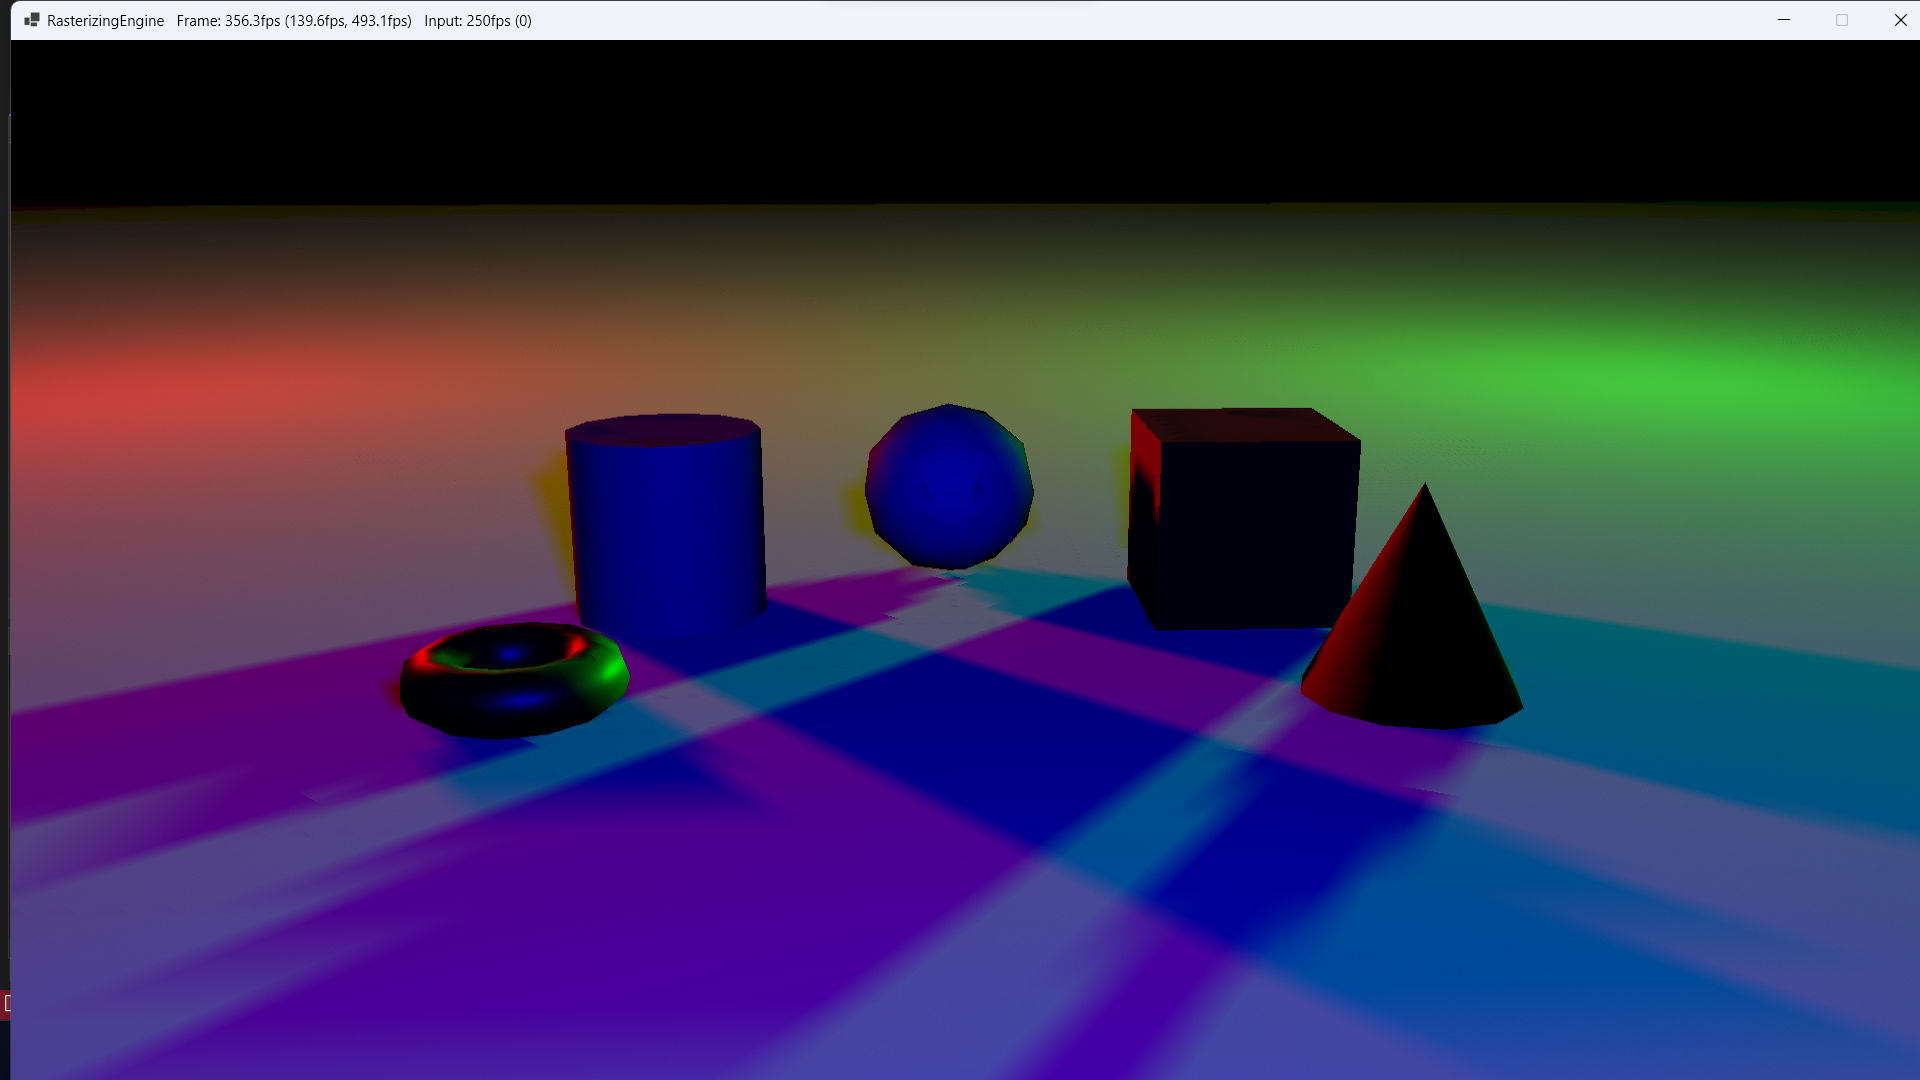
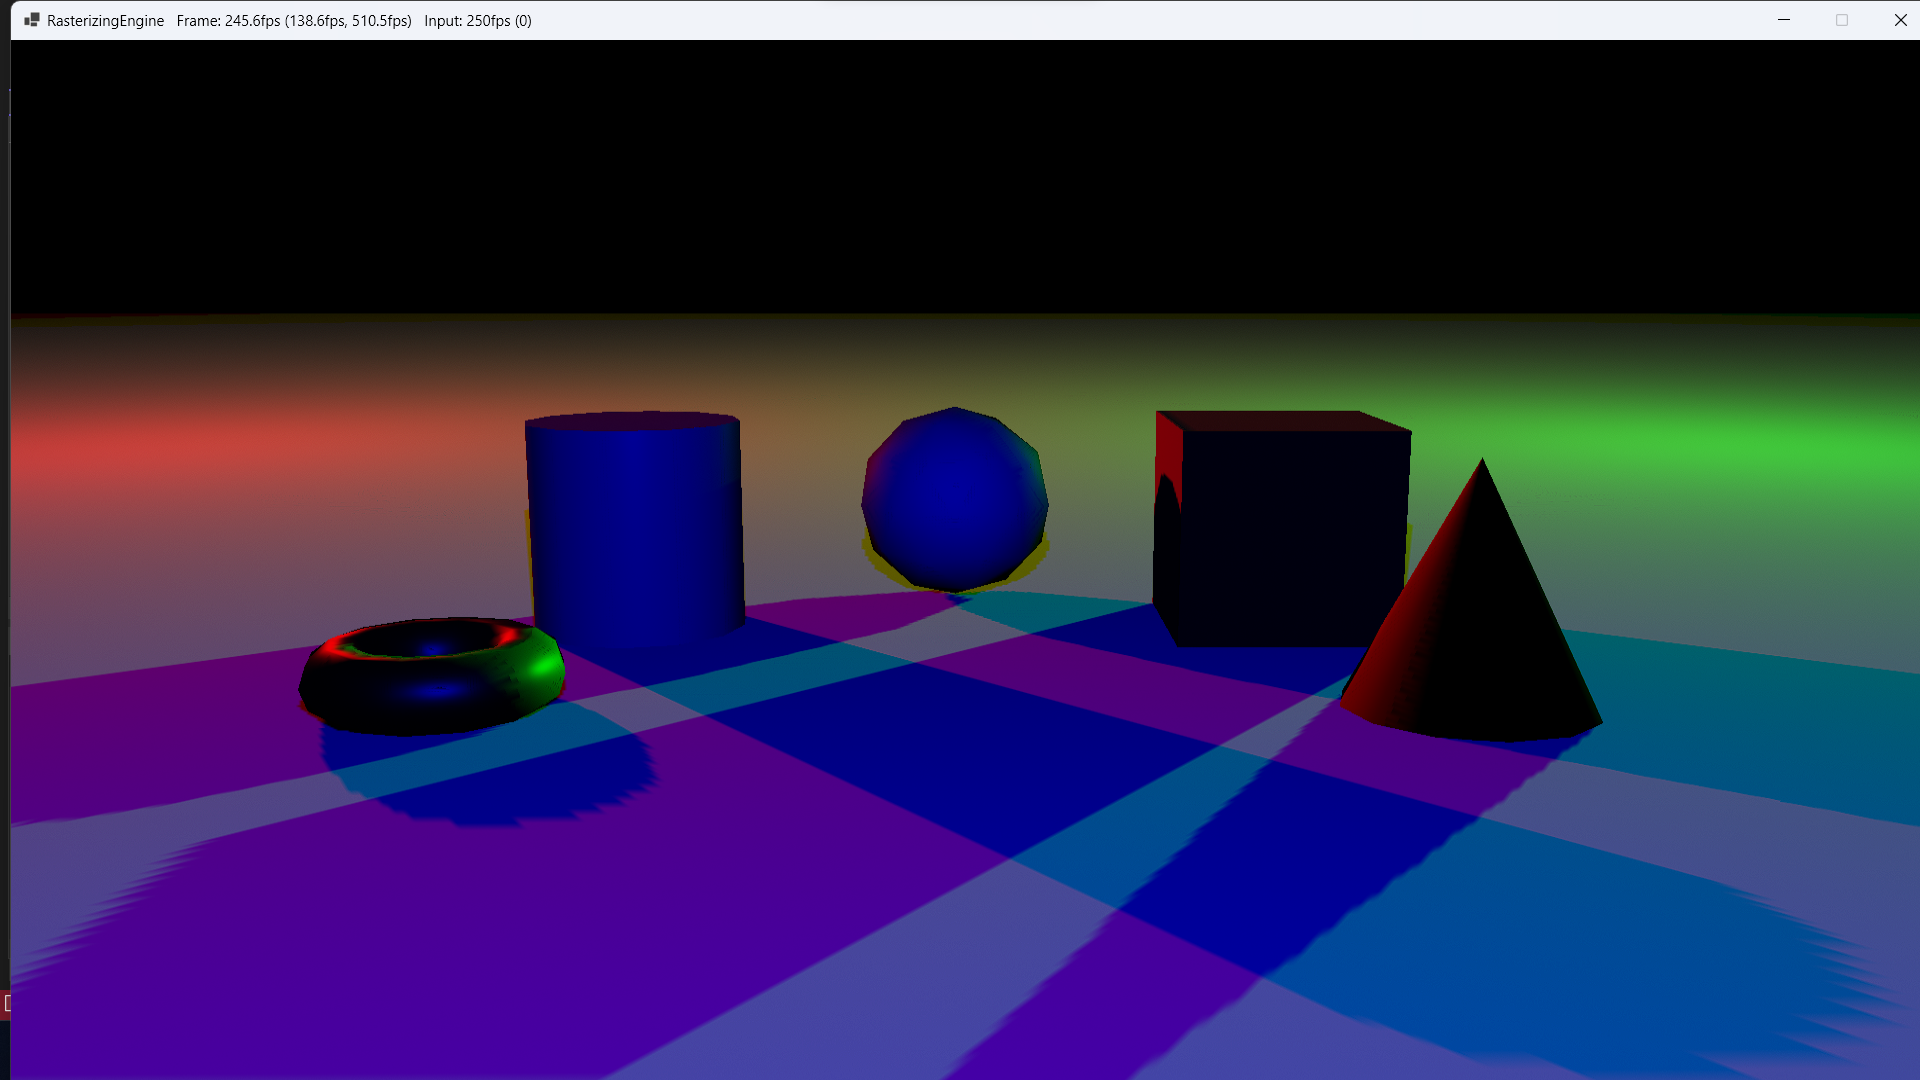
Updated rasterization picture with better shadow resolution

diff --git a/DXRenderEngine/DXRenderEngine/Classes.cs b/DXRenderEngine/DXRenderEngine/Classes.cs
@@ -682,7 +682,7 @@ public class Light
     public float Luminosity;
     public float NearPlane = 0.1f;
     public float FarPlane = 100.0f;
-    public int ShadowRes = 128;
+    public int ShadowRes = 1024;
     public ID3D11DepthStencilView ShadowStencilView;
     public ID3D11Texture2D1 ShadowTextures;
     public Viewport ShadowViewPort;
